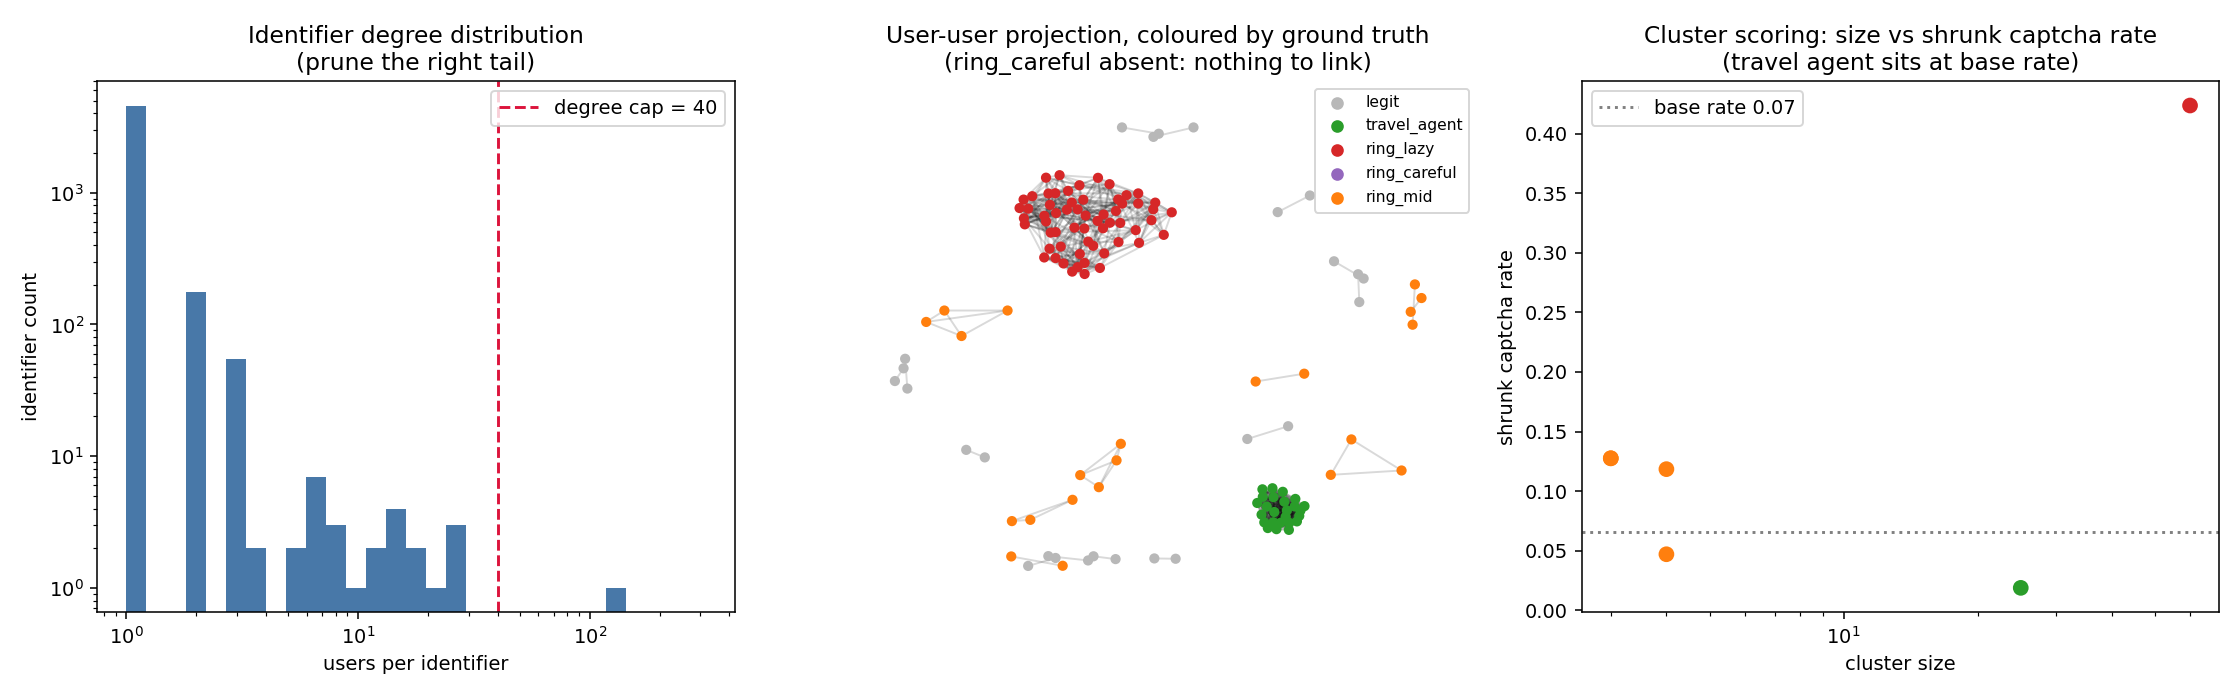
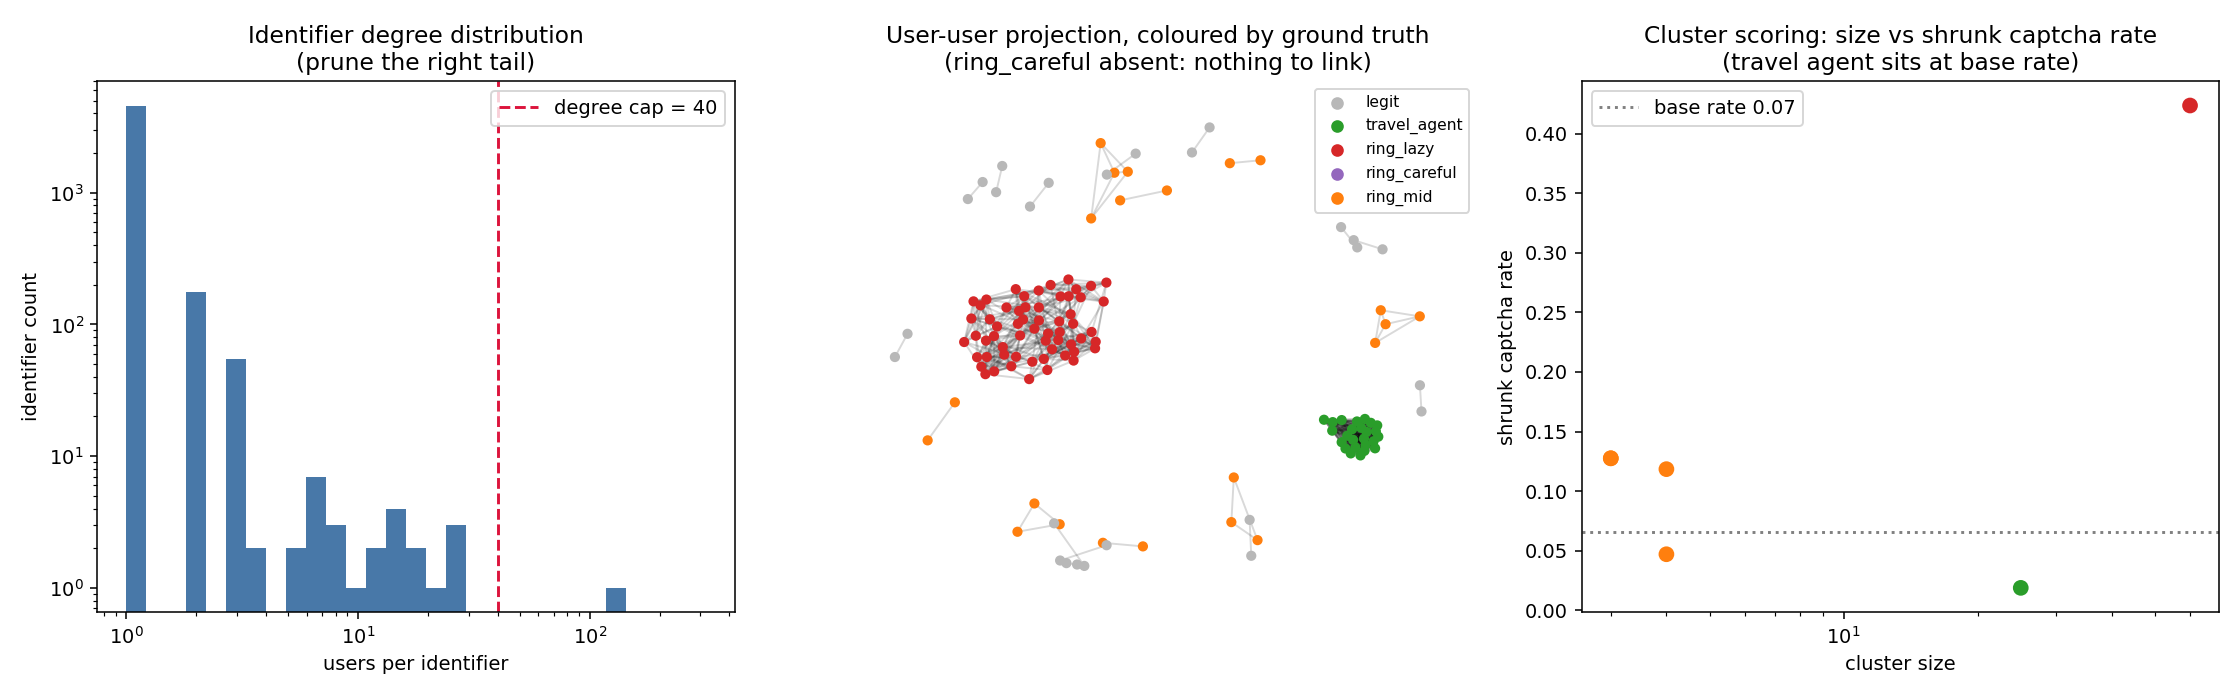
Mods of new method

diff --git a/src/openbotrisk/experiments/__init__.py b/src/openbotrisk/experiments/__init__.py
@@ -1,0 +1,1 @@
+"""Experiment code for openbotrisk methodology pages."""

diff --git a/src/openbotrisk/experiments/identifier_synchrony/__init__.py b/src/openbotrisk/experiments/identifier_synchrony/__init__.py
@@ -1,0 +1,1 @@
+"""Identifier graph and behavioural synchrony experiment."""

diff --git a/experiments/identifier-synchrony/README.md b/experiments/identifier-synchrony/README.md
@@ -7,10 +7,10 @@ Synthetic experiment supporting the Methodology page:
 Run the scripts from the repository root in this order:
 
 ```bash
-python experiments/identifier-synchrony/generate_data.py
-python experiments/identifier-synchrony/method1_identifier_graph.py
-python experiments/identifier-synchrony/method2_synchrony.py
-python experiments/identifier-synchrony/method2_bucket_sweep.py
+python src/openbotrisk/experiments/identifier_synchrony/generate_data.py
+python src/openbotrisk/experiments/identifier_synchrony/method1_identifier_graph.py
+python src/openbotrisk/experiments/identifier_synchrony/method2_synchrony.py
+python src/openbotrisk/experiments/identifier_synchrony/method2_bucket_sweep.py
 ```
 
 Generated CSVs are written to `experiments/identifier-synchrony/generated/`.
@@ -18,6 +18,8 @@ Figures are written to `site/methodology/images/` so the website page updates
 when the experiment is rerun.
 
 ## Script Roles
+
+The Python source lives in `src/openbotrisk/experiments/identifier_synchrony/`.
 
 | Script | Purpose |
 |---|---|